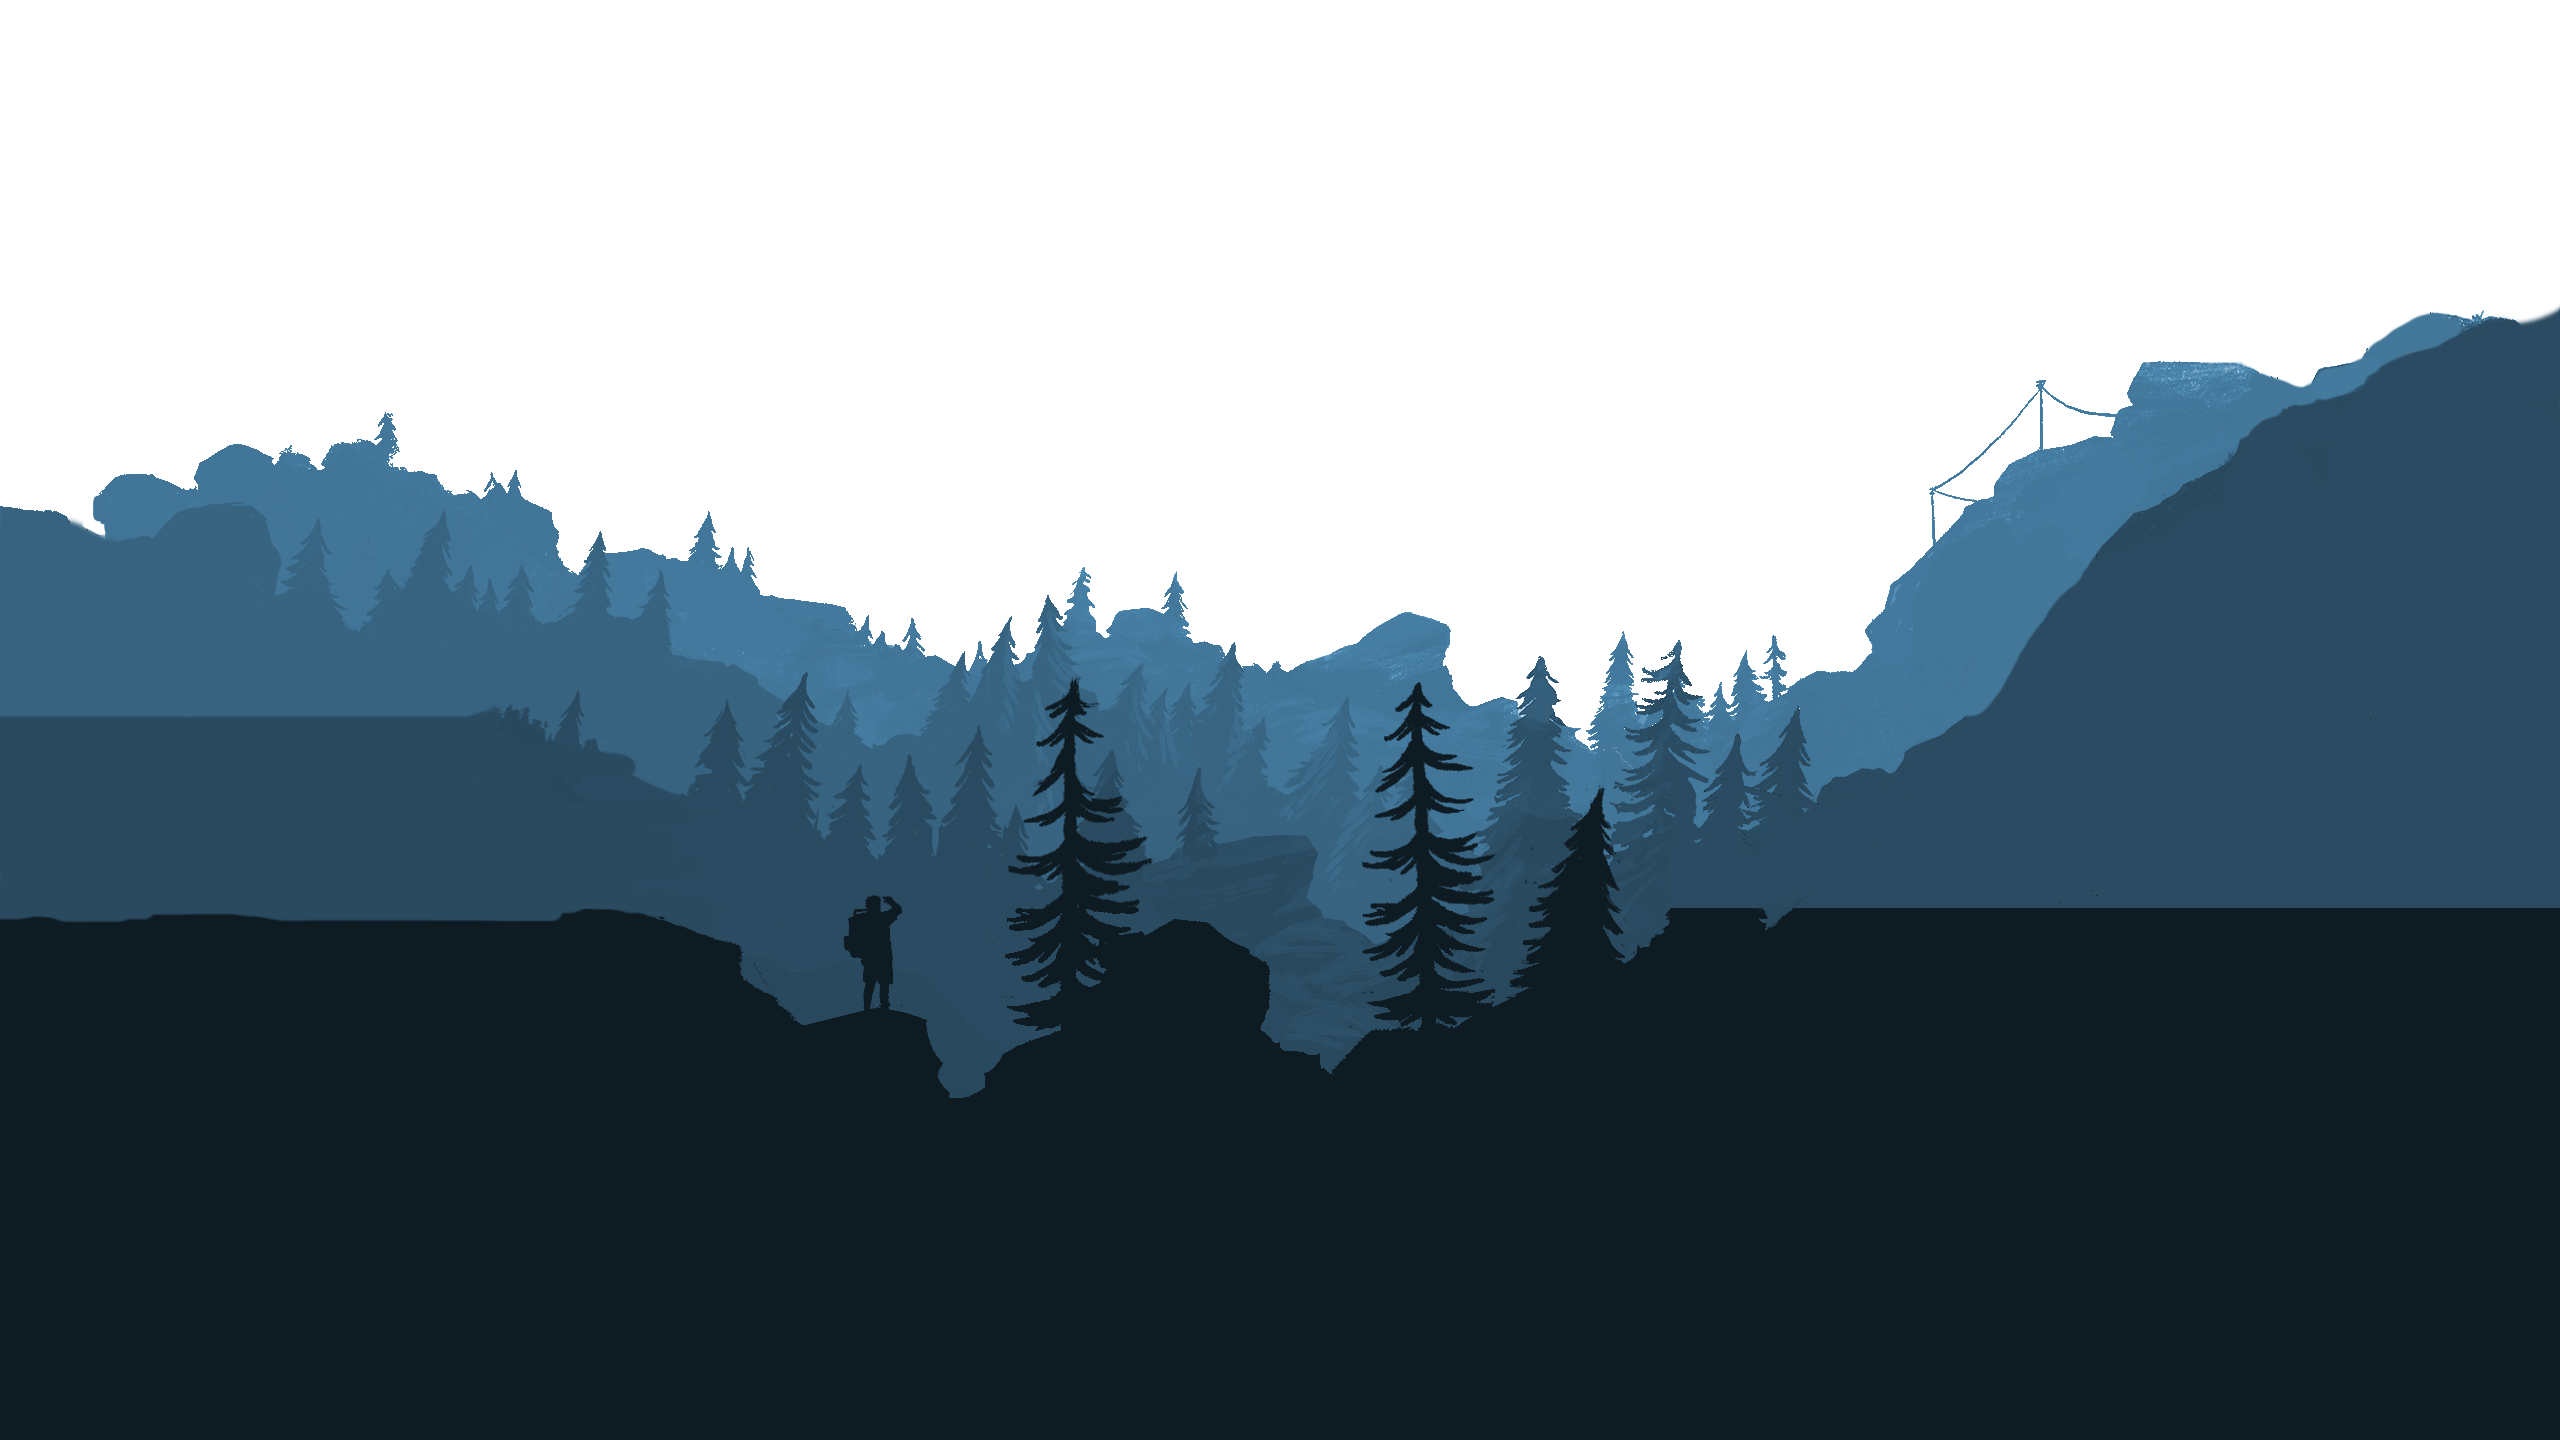
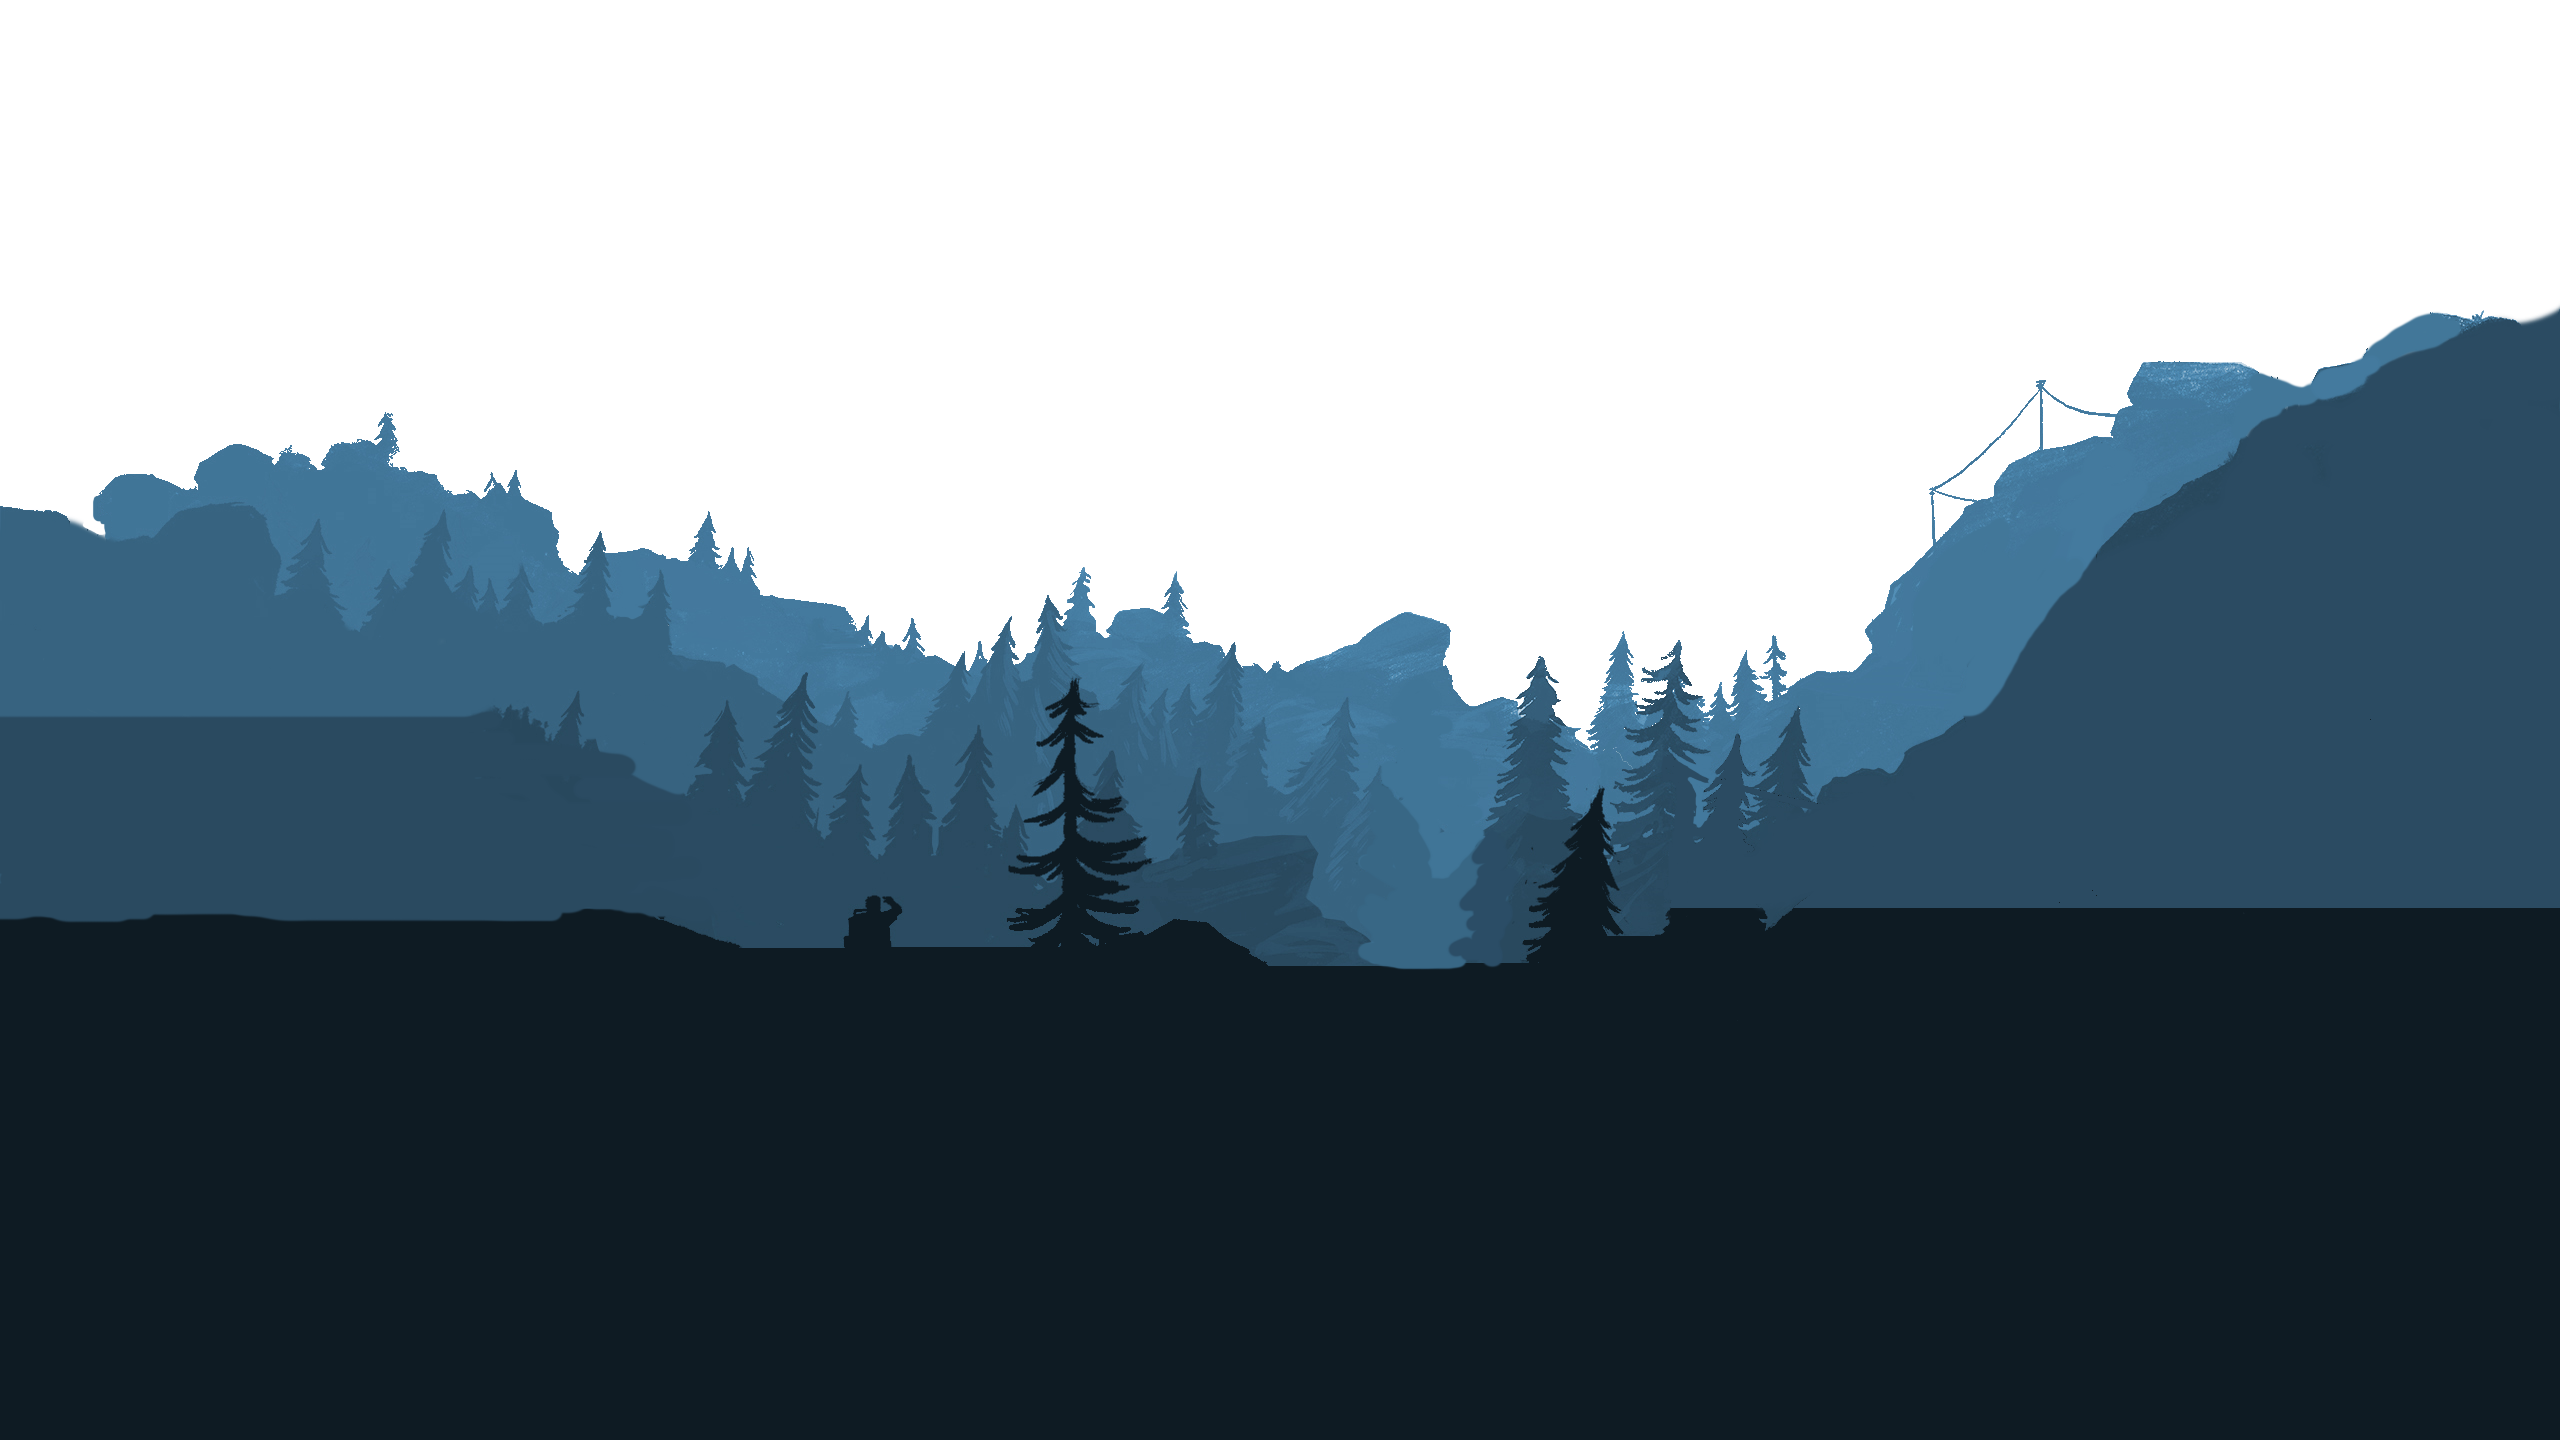
Add table of contents support and sidebar layout
Introduced the jekyll-toc plugin and configured it in _config.yml to enable automatic table of contents generation. Updated default.html to render a sidebar with a TOC when enabled, and styled the sidebar in custom.css. Set toc: true for the modular simulator post and toc: false for the index page. Updated background images and improved overall site appearance.

Changed region(s): [[0.4688, 0.4688, 0.5938, 0.75], [0.2812, 0.6562, 0.4375, 0.75], [0.625, 0.625, 0.6562, 0.6562]]

diff --git a/_layouts/default.html b/_layouts/default.html
@@ -60,6 +60,51 @@
           <h3>{{ page.date | date: "%b %-d, %Y" }}</h3>
         </div>
 
+        {% if page.toc %}
+          <div class="sidebar" id="toc-sidebar">
+            <!-- Table of Contents will be generated here -->
+          </div>
+        {% endif %}
+
+        <script>
+          document.addEventListener("DOMContentLoaded", function () {
+            const sidebar = document.getElementById('toc-sidebar');
+            if (!sidebar) return;
+
+            const content = document.querySelector('.page-content');
+            if (!content) return;
+
+            const headers = content.querySelectorAll('h2, h3, h4');
+            if (headers.length === 0) return;
+
+            // Create and append TOC title
+            const tocTitle = document.createElement('h3');
+            tocTitle.textContent = 'Table of Contents';
+            tocTitle.style.marginTop = '0';
+            sidebar.appendChild(tocTitle);
+
+            // Create and append TOC list
+            const tocList = document.createElement('ul');
+            headers.forEach(header => {
+              if (!header.id) {
+                header.id = header.textContent.trim().toLowerCase().replace(/[^\w]+/g, '-');
+              }
+
+              const li = document.createElement('li');
+              li.style.marginLeft = header.tagName === 'H3' ? '1em' : header.tagName === 'H4' ? '2em' : '0';
+
+              const a = document.createElement('a');
+              a.href = `#${header.id}`;
+              a.textContent = header.textContent;
+
+              li.appendChild(a);
+              tocList.appendChild(li);
+            });
+
+            sidebar.appendChild(tocList);
+          });
+        </script>
+
         <div class="page-content">
           {{ content }}
         </div>

diff --git a/assets/css/custom.css b/assets/css/custom.css
@@ -7,11 +7,29 @@
 body {
   margin: 0;
   padding: 0;
-  background: #E4E4E4;
+  background: #0E1B23;
   background-attachment: fixed;
   background-size: cover;
   background-position: center bottom;
   background-repeat: no-repeat;
+}
+
+.sidebar {
+  width: 200px;
+  min-height: 100vh;
+  background-color: #E4E4E4;
+  overflow-y: auto;
+  box-sizing: border-box;
+  position: fixed;
+  top: 0;
+  bottom: 0;
+  left: calc(50vw - 600px);
+  display: flex;
+  flex-direction: column;
+  justify-content: center;  /* Vertical centering */
+  height: 80vh;             /* or full viewport height you want */
+  padding: 1rem;
+  border-left: 1px solid #ddd;
 }
 
 /* Remove or rename .container if unused now */
@@ -111,4 +129,11 @@ h5 {
 }
 h6 {
     color: #000000;
+}
+
+/* Hide sidebar on small screens */
+@media screen and (max-width: 1200px) {
+  .sidebar {
+    display: none;
+  }
 }

diff --git a/_layouts/index.html b/_layouts/index.html
@@ -1,5 +1,6 @@
 ---
 layout: default
+toc: false
 ---
 
 Hello and welcome to my personal website! This is where I share my thoughts, experiences, and projects related to my work with statistical signal processing. Feel free to explore the posts below.
